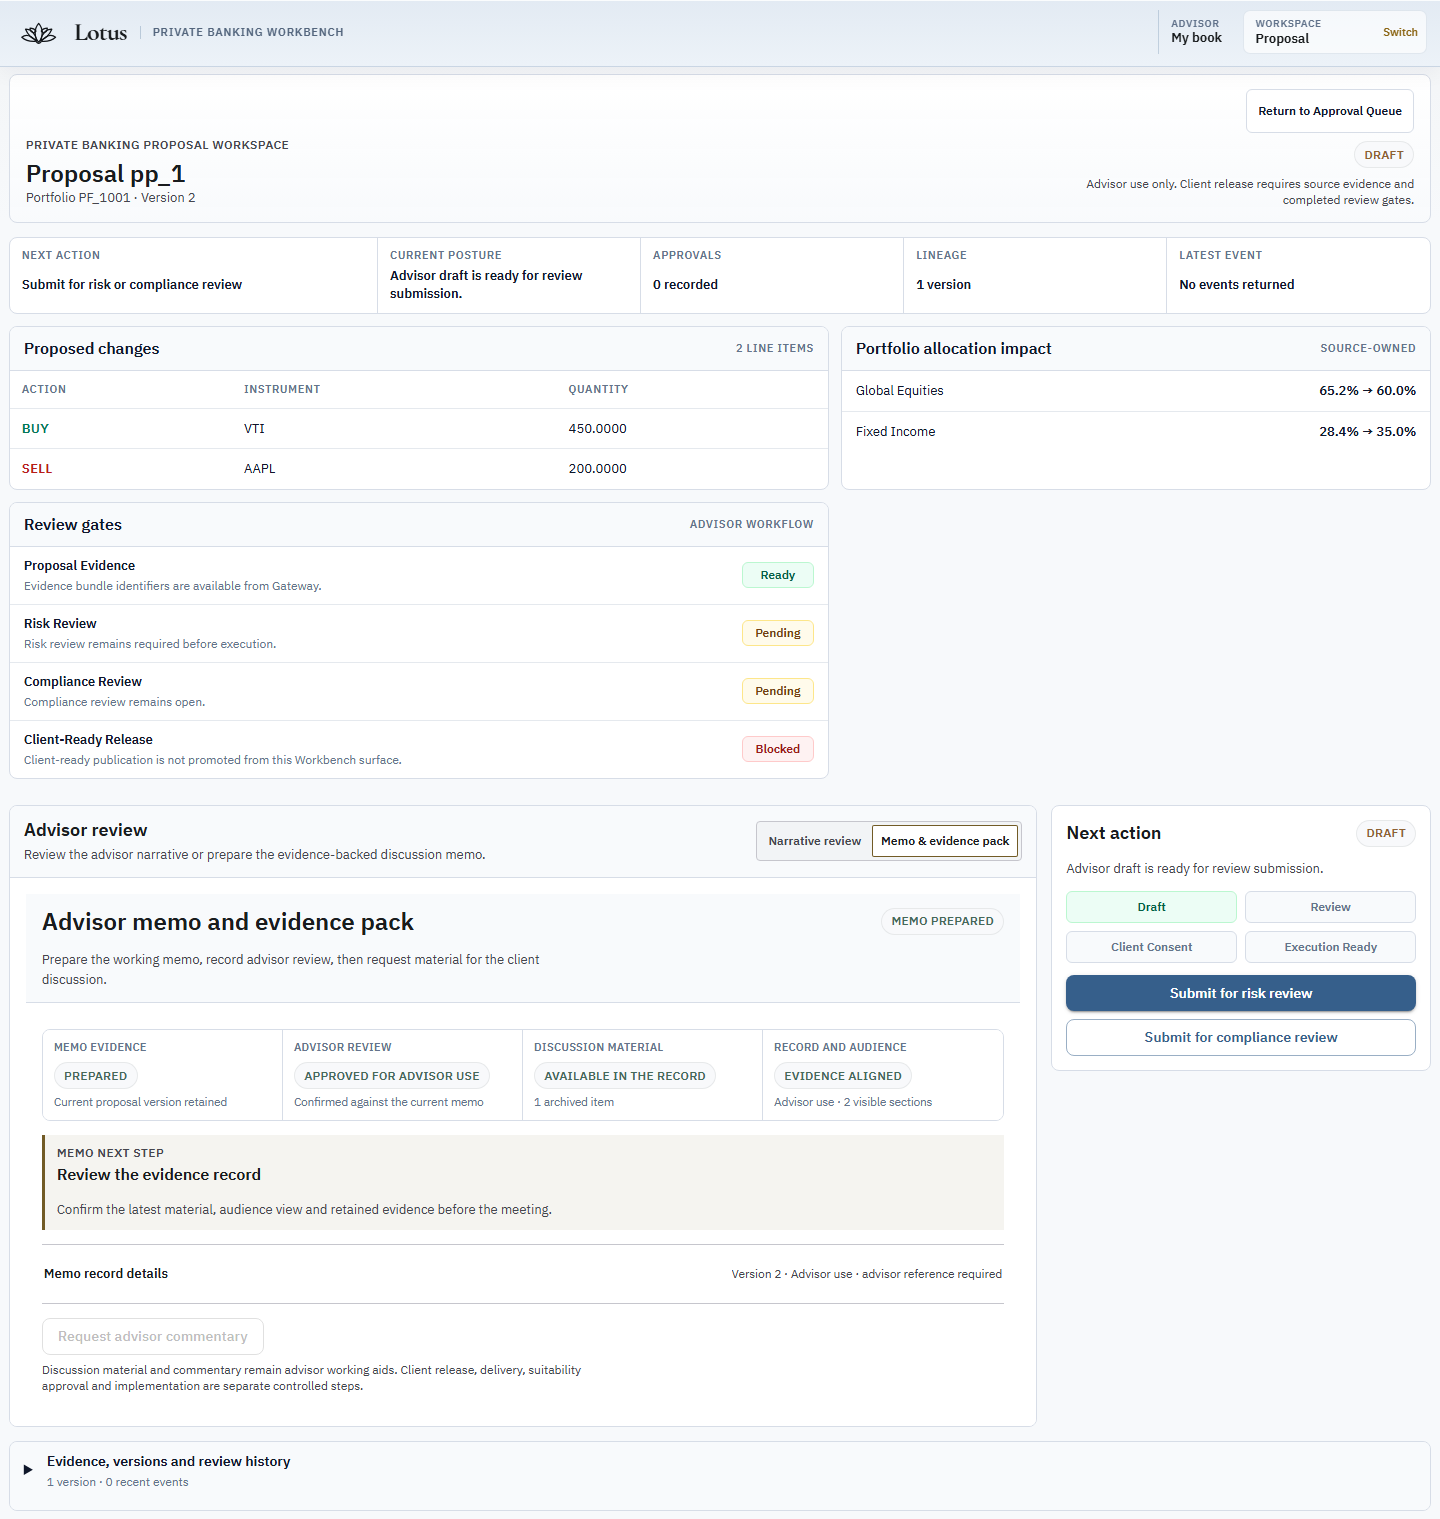
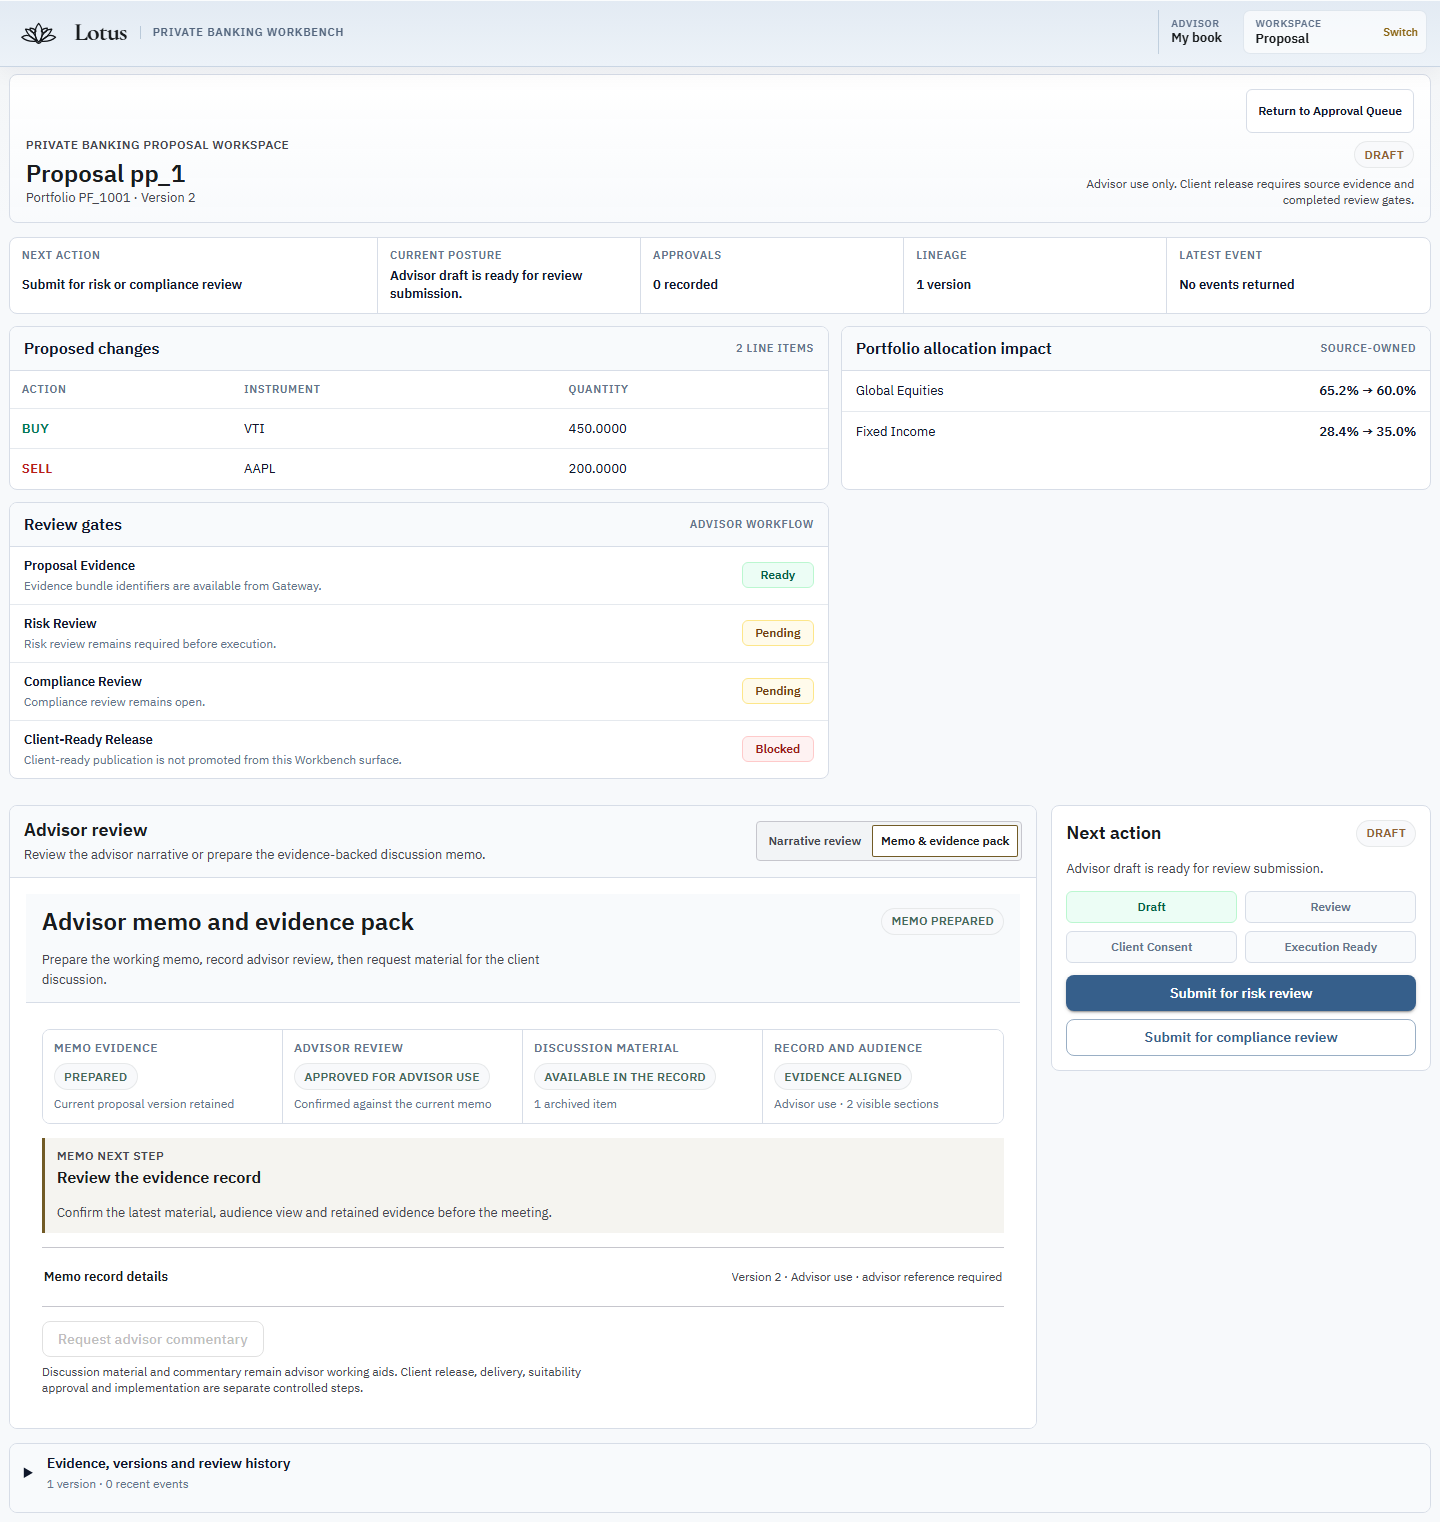
fix(typography): keep proposal review on shared tokens (#798)

diff --git a/src/features/proposals/components/proposal-review-panel.module.css b/src/features/proposals/components/proposal-review-panel.module.css
@@ -42,10 +42,10 @@
 
 .workflowLabel {
   color: var(--portfolio-ui-muted, #64748b);
-  font-size: 0.67rem;
-  font-weight: 750;
+  font-size: var(--type-micro-label-size);
+  font-weight: var(--type-micro-label-weight);
   letter-spacing: 0.045em;
-  line-height: 0.95rem;
+  line-height: var(--type-micro-label-line-height);
   text-transform: uppercase;
 }
 
@@ -62,8 +62,8 @@
 
 .workflowSupport {
   color: var(--portfolio-ui-muted, #64748b);
-  font-size: 0.72rem;
-  line-height: 1rem;
+  font-size: var(--type-helper-text-size);
+  line-height: var(--type-helper-text-line-height);
   overflow-wrap: anywhere;
 }
 
@@ -90,7 +90,7 @@
   border-color: rgba(100, 116, 139, 0.34);
   border-radius: 6px;
   background: #fff;
-  font-size: 0.82rem;
+  font-size: var(--type-body-small-size);
 }
 
 .rationaleField :global(.textarea) {
@@ -153,27 +153,19 @@
 
 .supportFacts dt {
   color: var(--portfolio-ui-muted, #64748b);
-  font-size: 0.67rem;
-  font-weight: 750;
+  font-size: var(--type-micro-label-size);
+  font-weight: var(--type-micro-label-weight);
   letter-spacing: 0.04em;
-  line-height: 0.95rem;
+  line-height: var(--type-micro-label-line-height);
   text-transform: uppercase;
 }
 
 .supportFacts dd {
   margin: 0;
   color: var(--portfolio-ui-ink, #0f172a);
-  font-family: var(
-    --font-mono,
-    ui-monospace,
-    SFMono-Regular,
-    Menlo,
-    Monaco,
-    Consolas,
-    monospace
-  );
-  font-size: 0.72rem;
-  line-height: 1rem;
+  font-family: var(--font-mono);
+  font-size: var(--type-body-small-size);
+  line-height: var(--type-body-small-line-height);
   overflow-wrap: anywhere;
 }
 

diff --git a/docs/evidence/issue-798-product-copy/memo-evidence-pack/README.md b/docs/evidence/issue-798-product-copy/memo-evidence-pack/README.md
@@ -25,7 +25,7 @@ client release, delivery, suitability approval, order routing, or execution.
 - `npm test -- --run tests/unit/live-canonical-validation-script.test.ts tests/unit/proposal-memo-posture-panel.test.tsx tests/unit/proposal-memo-posture-view-model.test.ts tests/unit/proposal-memo-action-payloads.test.ts tests/unit/proposals-api.test.ts` — 69 passed.
 - `$env:PLAYWRIGHT_PORT='32199'; $env:ISSUE_798_EVIDENCE_DIR='docs/evidence/issue-798-product-copy'; npx playwright test tests/e2e/proposal-memo-posture.spec.ts --project=chromium --workers=1` — 10 passed.
 - `$env:PLAYWRIGHT_PORT='32200'; npx playwright test tests/e2e/proposal-workflow-context.spec.ts --project=chromium --workers=1` — 20 passed.
-- `$env:PLAYWRIGHT_PORT='32201'; $env:ISSUE_798_EVIDENCE_DIR='docs/evidence/issue-798-product-copy'; npx playwright test tests/e2e/proposal-memo-posture.spec.ts --project=chromium --workers=1 --grep 'supported widths'` — 1 passed at 1440, 768, 640, and 519 pixels with zero visible horizontal overflow.
+- `$env:PLAYWRIGHT_PORT='32202'; $env:ISSUE_798_EVIDENCE_DIR='docs/evidence/issue-798-product-copy'; npx playwright test tests/e2e/proposal-memo-posture.spec.ts --project=chromium --workers=1 --grep 'supported widths'` — 1 passed at 1440, 768, 640, and 519 pixels with zero visible horizontal overflow.
 - `npm run typecheck` — passed.
 - Targeted ESLint for the changed component, browser workflow, and tests — passed.
 
